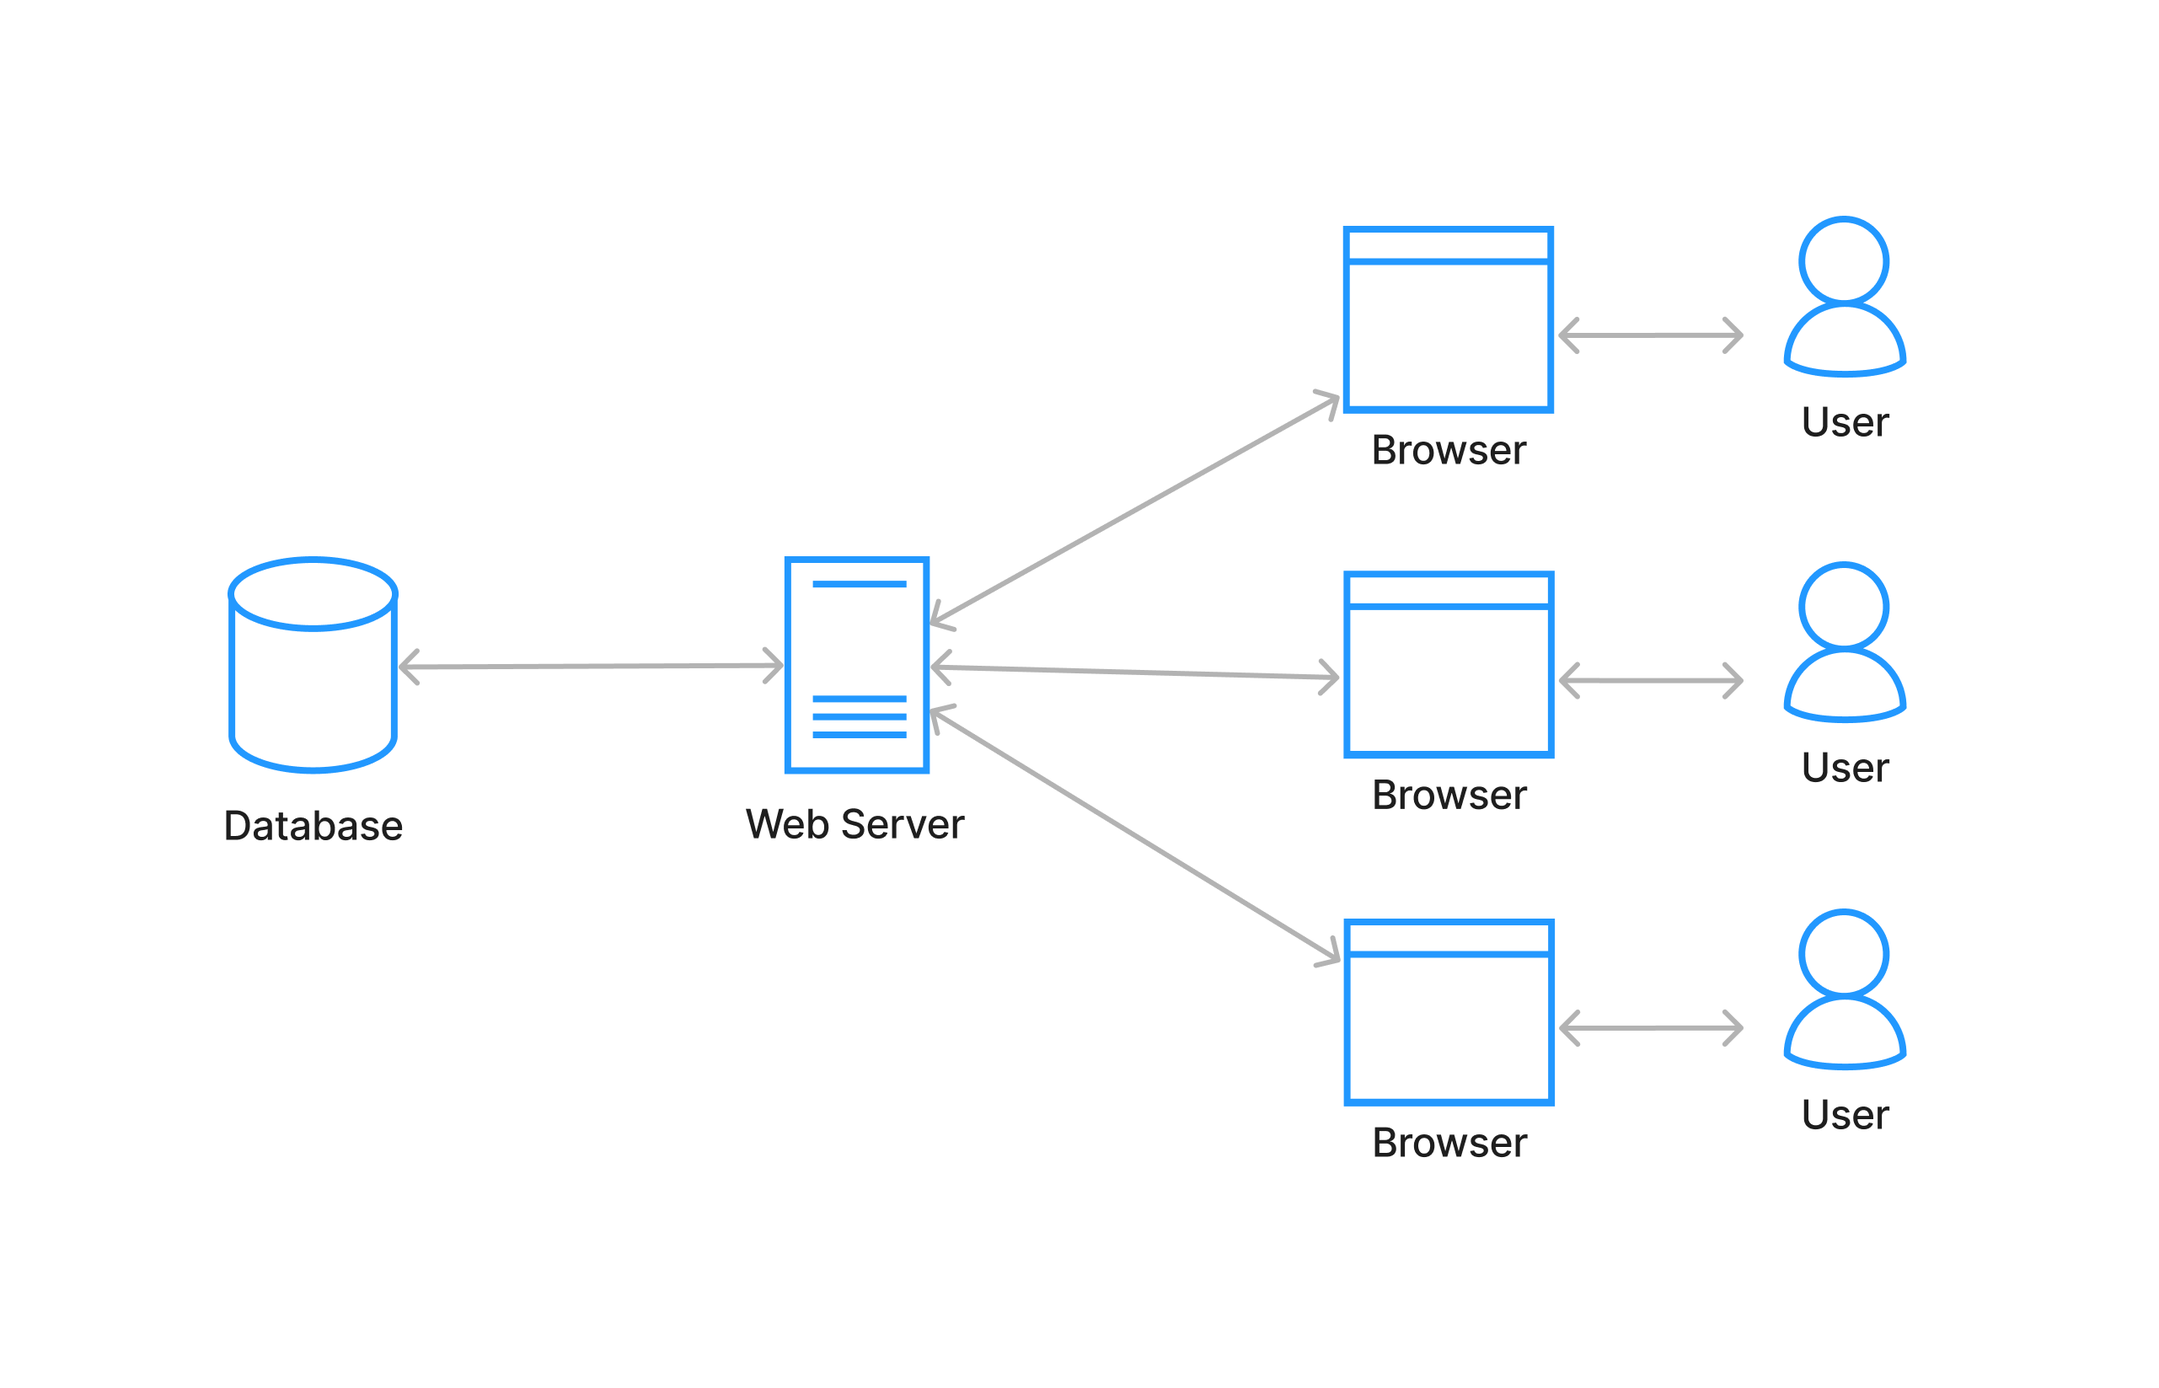
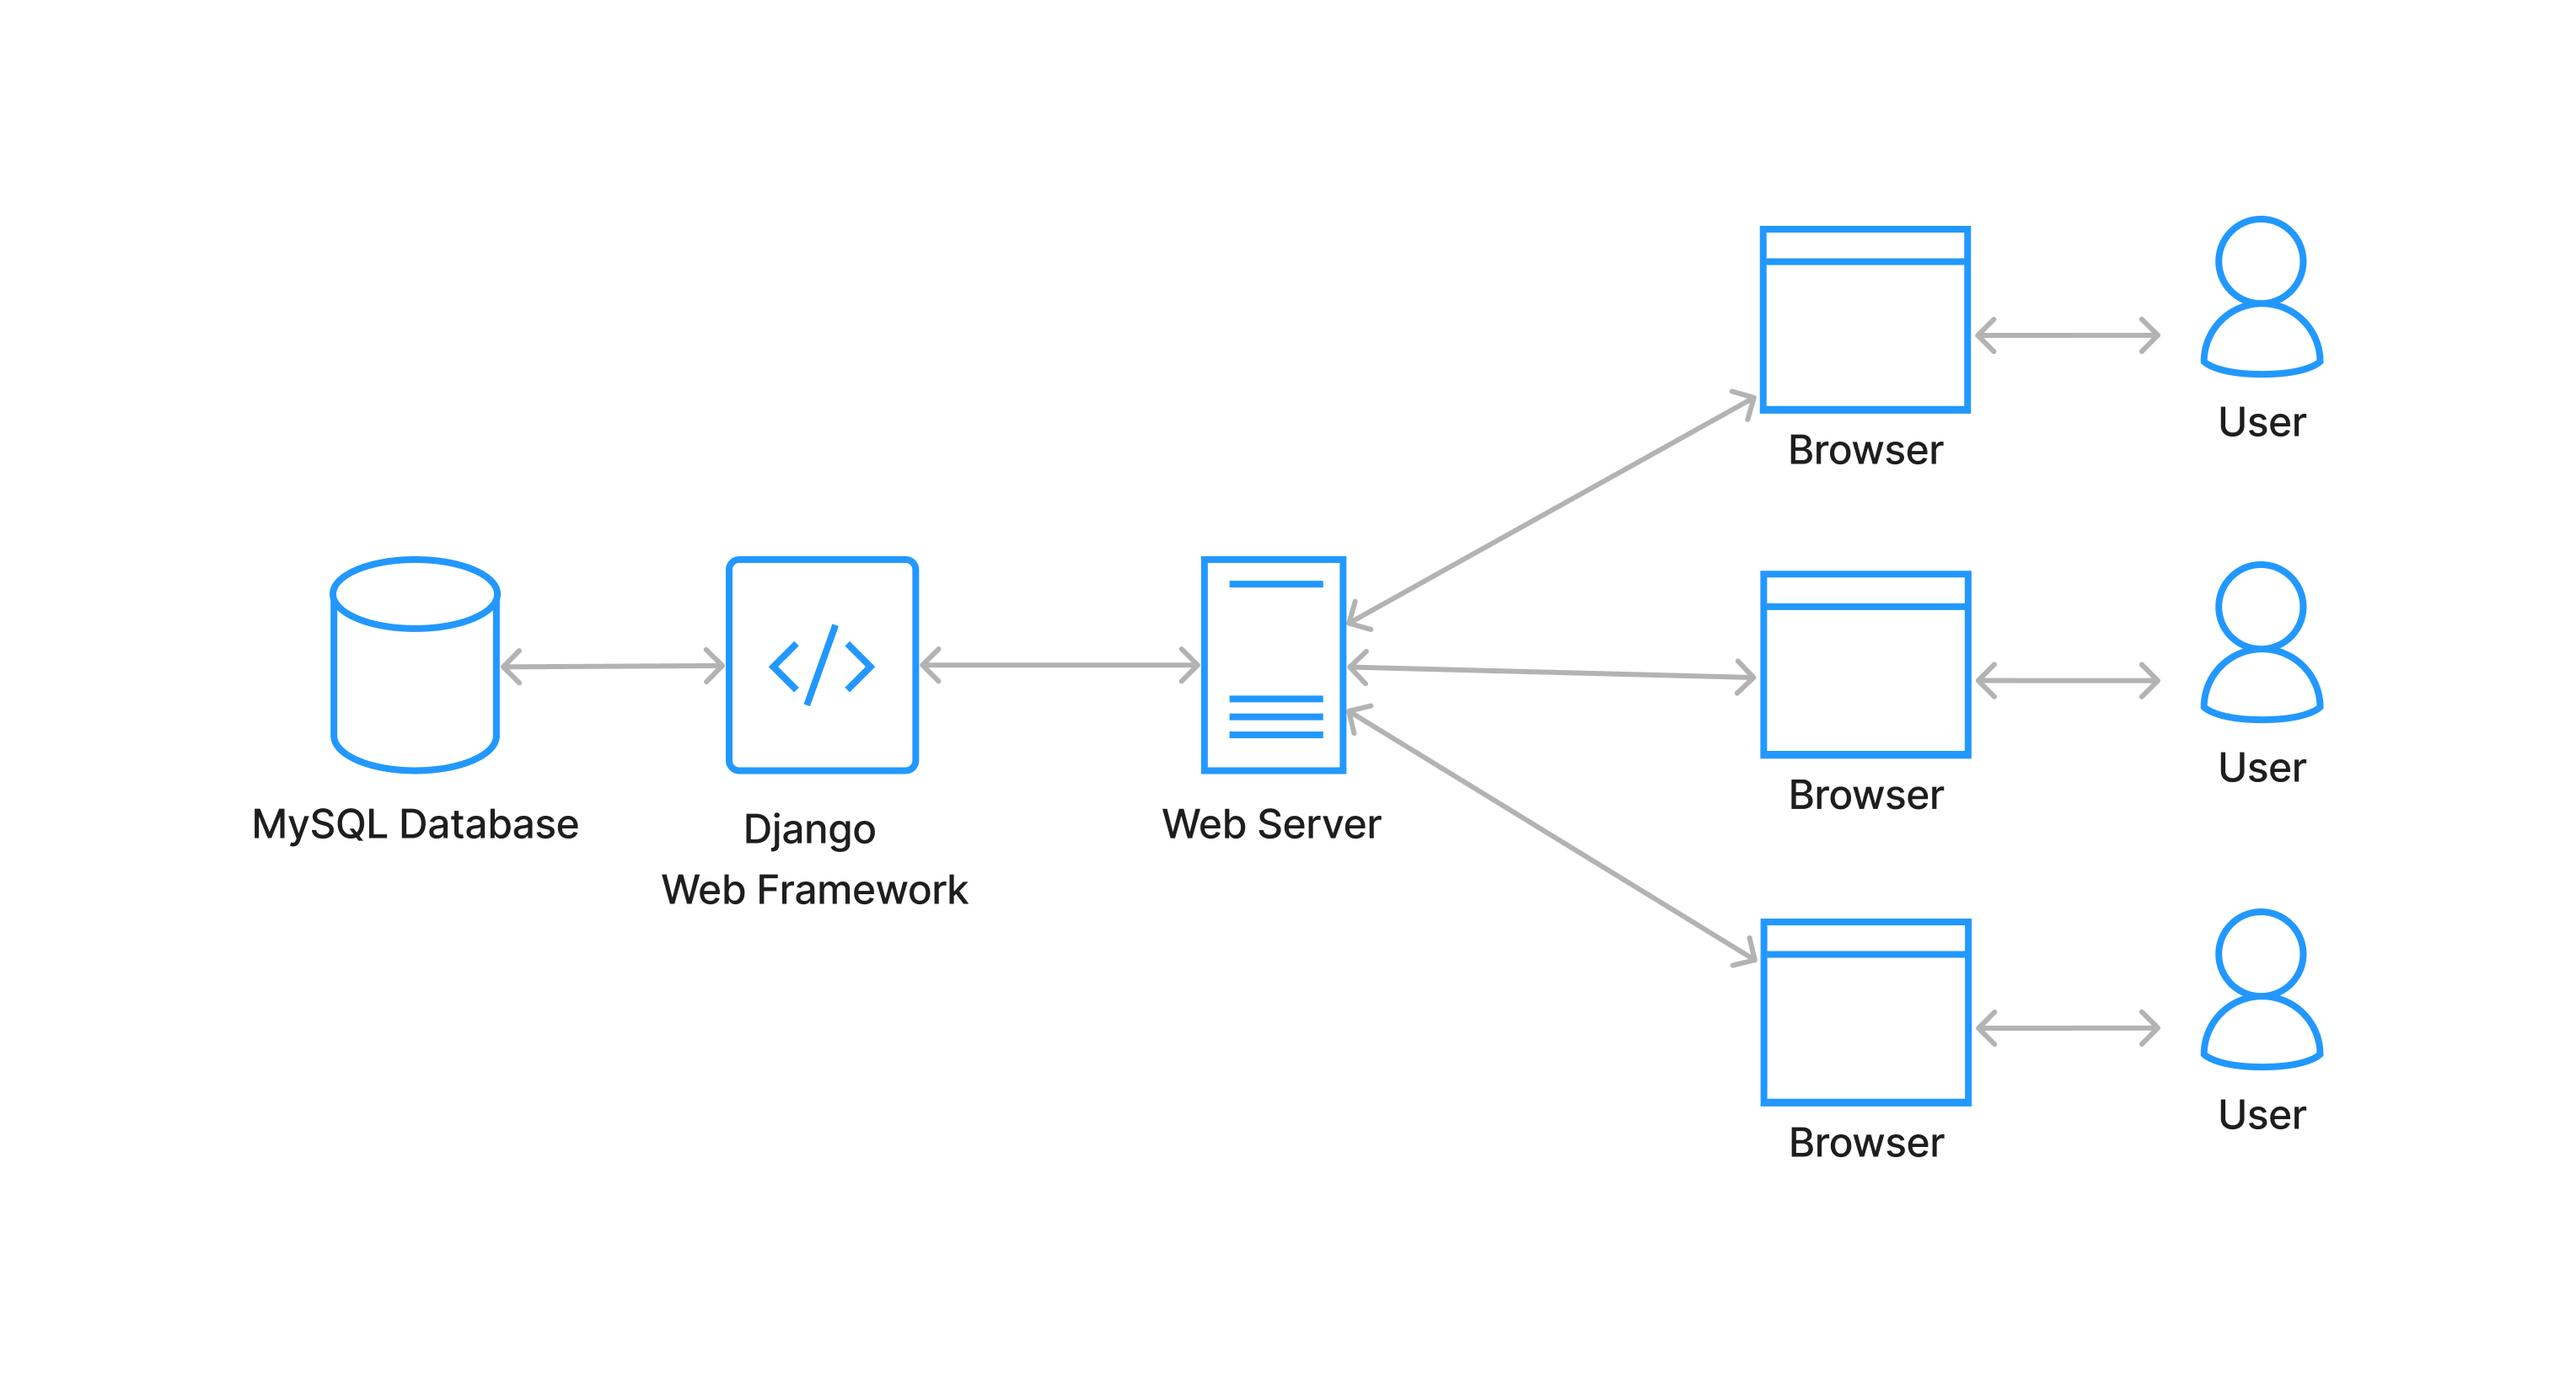
Added diagrams

diff --git a/functional_spec/05.High-Level_Design/high_level_design.md b/functional_spec/05.High-Level_Design/high_level_design.md
@@ -1,0 +1,10 @@
+# 5. High-Level Design
+
+## Use Case Diagram
+![Use Case Diagram](use_case_diagram.png)
+
+## Class Diagram
+![Class Diagram](class_diagram.png)
+
+## Data Flow Diagram
+![Data Flow Diagram](data_flow_diagram.png)

diff --git a/functional_spec/04.System_Architecture/system_architecture.md b/functional_spec/04.System_Architecture/system_architecture.md
@@ -1,3 +1,3 @@
-# 4. System Architecture Diagram
+# 4. System Architecture
 
 ![System Architecture Diagram](system_architecture.png)
